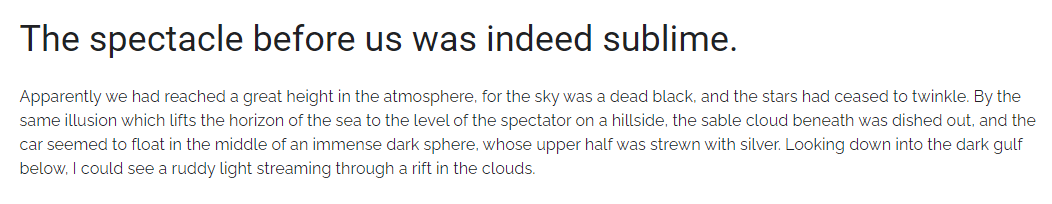
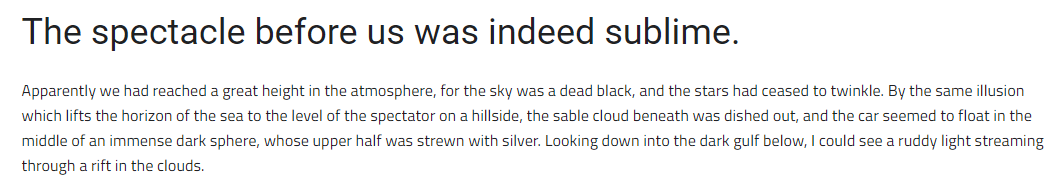
Add font example image for readme

diff --git a/templates/signup.html b/templates/signup.html
@@ -44,6 +44,7 @@
                             </div>
                         </div>
 
+                        <!-- Log-in Link For Existing Users -->
                         <div class="column is-12">
                             <p class="has-text-centered">
                                 Already Signed Up?

diff --git a/static/css/style.css b/static/css/style.css
@@ -1,4 +1,4 @@
-@import url('https://fonts.googleapis.com/css2?family=Raleway&family=Titillium+Web&display=swap');
+@import url('https://fonts.googleapis.com/css2?family=Roboto&family=Titillium+Web&display=swap');
 
 /*html{
     font-size: 62.5%;

diff --git a/README.md b/README.md
@@ -65,7 +65,7 @@ Again, this is were my project comes in ! I want to have a once and for all list
 * As a user, I want to possibly add some specific notes attached to each vinyl if required (a note like small scratch at start)
 * As a user, I want to be able to add as many records / vinyls as I want
 * As a user, I want to edit any vinyl info I want
-* As a user, I want to delete any vinyl I want (if I sell one on another site)
+* As a user, I want to delete any vinyl I want (if I sell one personally or on another site)
 
 
 
@@ -111,10 +111,10 @@ I will be using MongoDB as the database for my application as I found it fairly 
 #### Fonts
 
 For my fonts, I am going to use [Google Fonts](https://fonts.google.com/) as my source of inspiration :)
-I have settled on the simplicity side of things & the more user friendly style of [Raleway](https://fonts.google.com/specimen/Raleway)
+I have settled on the simplicity side of things & the more user friendly style of [Titillium Web](https://fonts.google.com/specimen/Titillium+Web)
 for the main text and [Roboto](https://fonts.google.com/specimen/Roboto) for titles and section headings.
 
-Below is an example of my fonts where the title is in ***Roboto*** and the text is in ***Raleway*** .....
+Below is an example of my fonts where the title is in ***Titillium*** and the text is in ***Roboto*** .....
 
 ![My-Vinyl-Answer Fonts](https://github.com/RaVeR76/My-Vinyl-Answer/raw/master/wireframes/fonts-example.png)
 
@@ -220,7 +220,7 @@ python
 
 - [Git](https://en.wikipedia.org/wiki/Git) 
 - [GitPod](https://www.gitpod.io/)
-- [Bootstrap](https://en.wikipedia.org/wiki/Bootstrap_(front-end_framework))
+- [Bulma](https://bulma.io/)
 - [jQuery](https://jquery.com/)
 - [Balsamiq](https://balsamiq.com/)
 - [W3C HTML Validation Service](https://validator.w3.org/)
